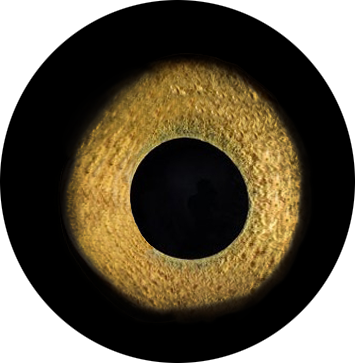
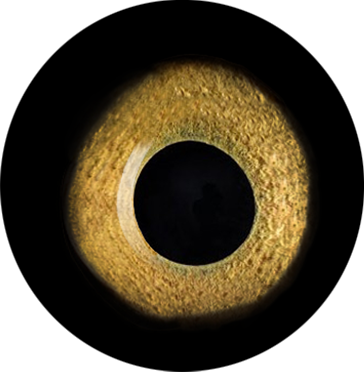
optimized

diff --git a/index.html b/index.html
@@ -1,15 +1,11 @@
 <head>
-
 <body>
 <link REL=stylesheet href="style.css" type="text/css">
-	 
-	<div class="dot"></div>
 	<div id="left_avatar">
-		<img id="left_eye" src="eye_ball.png">
-		
+		<img id="left_eye" src="left_eye.png">
 	</div>
 	<div id="right_avatar">
-		<img id="right_eye" src="eye_ball.png">
+		<img id="right_eye" src="right_eye.png">
 	</div>
 </body>
 
@@ -31,7 +27,7 @@
 			}
 			
 		
-			var max_margin = (left_rect.right - left_rect.left) / 15;
+			var max_margin = (left_rect.right - left_rect.left) / 115;
 			var x = pointer.x - center.left;
 			var y = pointer.y - center.top;
 			
@@ -41,71 +37,29 @@
 			var cos_theta = x/d;
 			var theta = Math.atan(-y/x);
 			
-			left_eyeball.style.left = r*cos_theta;
-			right_eyeball.style.left = r*cos_theta;
+			left_eyeball.style.left = -6.5+r*cos_theta+"vmin";
+			right_eyeball.style.left = (-5+r*cos_theta) +"vmin";
 			if (y>=0){
-				left_eyeball.style.top = r*Math.sqrt((1-Math.pow(cos_theta,2)));
-				right_eyeball.style.top = r*Math.sqrt((1-Math.pow(cos_theta,2)));
+				left_eyeball.style.top = -10 + r*Math.sqrt((1-Math.pow(cos_theta,2)))+"vmin";
+				right_eyeball.style.top = (-10 + r*Math.sqrt((1-Math.pow(cos_theta,2))))+"vmin";
 			}
 			else{
-				left_eyeball.style.top = -r*Math.sqrt((1-Math.pow(cos_theta,2)));
-				right_eyeball.style.top = -r*Math.sqrt((1-Math.pow(cos_theta,2)));
+				left_eyeball.style.top = -10-r*Math.sqrt((1-Math.pow(cos_theta,2)))+"vmin";
+				right_eyeball.style.top = (-10-r*Math.sqrt((1-Math.pow(cos_theta,2))))+"vmin";
 			}
-			
-			<!-- if (x>=0 && y>=0){ -->
-				
-			<!-- }else if(x>=0 && y<0){ -->
-			
-			<!-- }else if(x<0 && y<0){ -->
-			
-			<!-- }else{ -->
-			
-			<!-- } -->
 		}	
 	}
 
-
-
-var getCoordInDocument = function(e) {
-	e = e || window.event;
-	var x = e.pageX ;
-	var y= e.pageY ;
-	return {'x':x,'y':y};
-}
-
-function changePosition(image,image_box,pointer) 
-{
-	var rect = image_box.getBoundingClientRect();
-	var center = {
-		left: rect.left + (rect.right - rect.left) / 2,
-		top: rect.top + (rect.bottom - rect.top) / 2
+	var getCoordInDocument = function(e) {
+		e = e || window.event;
+		var x = e.pageX ;
+		var y= e.pageY ;
+		return {'x':x,'y':y};
 	}
 
-	
-	var max_margin_x = (rect.right - rect.left) / 20;
-	var max_margin_y = (rect.bottom - rect.top) / 20;
-	
-	var x = pointer.x - center.left;
-	var y = pointer.y - center.top;
-	
-	setTimeout(function (){
-		if (x>=0){
-			image.style.left = -(max_margin_x)*Math.exp(-x/max_margin_x/10) + max_margin_x;
-		}else{
-			image.style.left = (max_margin_x)*Math.exp(x/max_margin_x/10) - max_margin_x;
-		}
-		if (y>=0){
-			image.style.top = -(max_margin_y)*Math.exp(-y/max_margin_y/10) + max_margin_y;
-		}else{
-			image.style.top = (max_margin_y)*Math.exp(y/max_margin_y/10) - max_margin_y;
-		}
-	}, 1);
-}
-
-
-window.onload = function(){
-	updateEyeballPosition();
-};
+	window.onload = function(){
+		updateEyeballPosition();
+	};
 
 </script>
 

diff --git a/style.css b/style.css
@@ -16,62 +16,53 @@ background-color: #000000;
 }
 
 #left_avatar{
-	width:167px;
-	height:171px;
+	width:8.4%;
+	height:16%;
 	border :0px solid blue;
-	border-radius:  40% 80%;
+	border-radius:  60% 80%;
+	box-shadow: 20px 20px 50px #000000 inset;
 	overflow: hidden;
     display: inline-block;
 	position:absolute;
-	top:26.6%;
+	top:28%;
 	left:31.5%;
 	text-align: center;
 }
 
 #left_eye{
 	position:absolute;
-	height:100%;
-	width:100%;
+	height:33vmin;
+	width:30vmin;
 	
-	top:-1px;
+	top:-10vmin;
 	bottom:0px;
-	left:-1px;
+	left:-6.5vmin;
 	right:0px;
 }
 
 #right_avatar{
-	width:170px;
-	height:170px;
+	width:9.4%;
+	height:16%;
 	border :0px solid blue;
-	border-radius:  60% 40%;
+	box-shadow: 20px 20px 50px #000000 inset;
+	border-radius:  60% 60%;
 	overflow: hidden;
     display: inline-block;
 	position:absolute;
 	top:35.8%;
-	left:52.5%;
+	left:52.1%;
 	text-align: center;
-	/* transform:rotate(-20deg); */
+
 }
 
 #right_eye{
 	position:absolute;
-	height:100%;
-	width:100%;
+	height:35vmin;
+	width:30vmin;
 	
-	top:0px;
+	top:-10vmin;
 	bottom:0px;
-	left:0px;
+	left:-5vmin;
 	right:0px;
 	
-}
-
-.dot {
-	  position: absolute;
-	  width: 10px;
-	  height: 10px;
-	  border-radius: 100%;
-	  background: #000009;
-	  box-shadow: 0 2px 4px 0 rgba(0, 0, 0, .2);
-	  top:400px;
-	  left:679px;
 }
